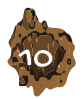
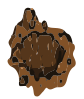
Added the images for mounds/holes of overflowing sizes. Also moved level 7, 8, 9 to appear at level 3, 4, 5. Instructions need to be updated, as well as markers which need graphics help.

Changed region(s): [[0.1905, 0.4848, 0.6667, 0.697]]

diff --git a/static/karel/levels.js b/static/karel/levels.js
@@ -34,6 +34,33 @@ Maze.pageOneLevels = [
   [1, 1, 1, 1, 1, 1, 1, 1],
   [1, 1, 1, 1, 1, 1, 1, 1],
   [1, 1, 1, 1, 1, 1, 1, 1]],
+// Level 7.
+ [[1, 1, 1, 1, 1, 1, 1, 1],
+  [1, 1, 1, 1, 1, 1, 1, 1],
+  [1, 1, 1, 1, 1, 1, 1, 1],
+  [1, 1, 1, 1, 1, 1, 1, 1],
+  [1, 1, 1, 1, 2, 3, 1, 1],
+  [1, 1, 1, 1, 1, 1, 1, 1],
+  [1, 1, 1, 1, 1, 1, 1, 1],
+  [1, 1, 1, 1, 1, 1, 1, 1]],
+// Level 8.
+ [[1, 1, 1, 1, 1, 1, 1, 1],
+  [1, 1, 1, 1, 1, 1, 1, 1],
+  [1, 1, 1, 1, 1, 1, 1, 1],
+  [1, 1, 1, 1, 1, 1, 1, 1],
+  [1, 1, 1, 1, 1, 1, 1, 1],
+  [1, 1, 1, 1, 1, 1, 1, 1],
+  [1, 1, 1, 1, 1, 1, 1, 1],
+  [2, 1, 1, 1, 1, 3, 0, 0]],
+// Level 9.
+ [[1, 1, 1, 1, 1, 1, 1, 1],
+  [1, 1, 1, 1, 1, 1, 1, 1],
+  [1, 1, 1, 1, 1, 1, 1, 1],
+  [1, 1, 1, 1, 1, 1, 1, 1],
+  [1, 1, 1, 5, 1, 1, 1, 1],
+  [1, 1, 1, 1, 1, 1, 1, 1],
+  [1, 1, 1, 1, 1, 1, 1, 1],
+  [1, 1, 1, 1, 1, 1, 1, 1]],
 // Level 3.
  [[1, 1, 1, 1, 1, 1, 1, 1],
   [1, 1, 1, 1, 1, 1, 1, 1],
@@ -70,33 +97,6 @@ Maze.pageOneLevels = [
   [1, 1, 1, 1, 1, 1, 1, 1],
   [1, 1, 1, 1, 1, 1, 1, 1],
   [2, 1, 1, 1, 1, 0, 1, 1]],
-// Level 7.
- [[1, 1, 1, 1, 1, 1, 1, 1],
-  [1, 1, 1, 1, 1, 1, 1, 1],
-  [1, 1, 1, 1, 1, 1, 1, 1],
-  [1, 1, 1, 1, 1, 1, 1, 1],
-  [1, 1, 1, 1, 2, 3, 1, 1],
-  [1, 1, 1, 1, 1, 1, 1, 1],
-  [1, 1, 1, 1, 1, 1, 1, 1],
-  [1, 1, 1, 1, 1, 1, 1, 1]],
-// Level 8.
- [[1, 1, 1, 1, 1, 1, 1, 1],
-  [1, 1, 1, 1, 1, 1, 1, 1],
-  [1, 1, 1, 1, 1, 1, 1, 1],
-  [1, 1, 1, 1, 1, 1, 1, 1],
-  [1, 1, 1, 1, 1, 1, 1, 1],
-  [1, 1, 1, 1, 1, 1, 1, 1],
-  [1, 1, 1, 1, 1, 1, 1, 1],
-  [2, 1, 1, 1, 1, 3, 0, 0]],
-// Level 9.
- [[1, 1, 1, 1, 1, 1, 1, 1],
-  [1, 1, 1, 1, 1, 1, 1, 1],
-  [1, 1, 1, 1, 1, 1, 1, 1],
-  [1, 1, 1, 1, 1, 1, 1, 1],
-  [1, 1, 1, 5, 1, 1, 1, 1],
-  [1, 1, 1, 1, 1, 1, 1, 1],
-  [1, 1, 1, 1, 1, 1, 1, 1],
-  [1, 1, 1, 1, 1, 1, 1, 1]],
 // Level 10.
  [[1, 1, 1, 1, 1, 1, 1, 1],
   [1, 1, 1, 1, 1, 1, 1, 1],
@@ -223,6 +223,33 @@ Maze.pageOneInitialBalls = [
   [0, 0, 0, 0, 0, 0, 0, 0],
   [0, 0, 0, 0, 0, 0, 0, 0],
   [0, 0, 0, 0, 0, 0, 0, 0]],
+// Level 7.
+ [[0, 0, 0, 0, 0, 0, 0, 0],
+  [0, 0, 0, 0, 0, 0, 0, 0],
+  [0, 0, 0, 0, 0, 0, 0, 0],
+  [0, 0, 0, 0, 0, 0, 0, 0],
+  [0, 0, 0, 0, 0, 10, 0, 0],
+  [0, 0, 0, 0, 0, 0, 0, 0],
+  [0, 0, 0, 0, 0, 0, 0, 0],
+  [0, 0, 0, 0, 0, 0, 0, 0]],
+// Level 8.
+ [[0, 0, 0, 0, 0, 0, 0, 0],
+  [0, 0, 0, 0, 0, 0, 0, 0],
+  [0, 0, 0, 0, 0, 0, 0, 0],
+  [0, 0, 0, 0, 0, 0, 0, 0],
+  [0, 0, 0, 0, 0, 0, 0, 0],
+  [0, 0, 0, 0, 0, 0, 0, 0],
+  [0, 0, 0, 0, 0, 0, 0, 0],
+  [0, -5, -5, -5, -5, -5, 0, 0]],
+// Level 9.
+ [[0, 0, 0, 0, 0, 0, 0, 0],
+  [0, 0, 0, 0, 0, 0, 0, 0],
+  [0, 0, 0, 0, 0, 0, 0, 0],
+  [0, 0, 0, 1, 1, 0, 0, 0],
+  [0, 0, 0, 1, 1, 0, 0, 0],
+  [0, 0, 0, 0, 0, 0, 0, 0],
+  [0, 0, 0, 0, 0, 0, 0, 0],
+  [0, 0, 0, 0, 0, 0, 0, 0]],
 // Level 3.
  [[0, 0, 0, 0, 0, 0, 0, 0],
   [0, 0, 0, 0, 0, 0, 0, 0],
@@ -259,33 +286,6 @@ Maze.pageOneInitialBalls = [
   [0, 0, 0, 0, 1, 0, 0, 0],
   [0, 0, 0, 0, 1, 0, 0, 0],
   [0, 1, 1, 1, 1, 0, 0, 0]],
-// Level 7.
- [[0, 0, 0, 0, 0, 0, 0, 0],
-  [0, 0, 0, 0, 0, 0, 0, 0],
-  [0, 0, 0, 0, 0, 0, 0, 0],
-  [0, 0, 0, 0, 0, 0, 0, 0],
-  [0, 0, 0, 0, 0, 10, 0, 0],
-  [0, 0, 0, 0, 0, 0, 0, 0],
-  [0, 0, 0, 0, 0, 0, 0, 0],
-  [0, 0, 0, 0, 0, 0, 0, 0]],
-// Level 8.
- [[0, 0, 0, 0, 0, 0, 0, 0],
-  [0, 0, 0, 0, 0, 0, 0, 0],
-  [0, 0, 0, 0, 0, 0, 0, 0],
-  [0, 0, 0, 0, 0, 0, 0, 0],
-  [0, 0, 0, 0, 0, 0, 0, 0],
-  [0, 0, 0, 0, 0, 0, 0, 0],
-  [0, 0, 0, 0, 0, 0, 0, 0],
-  [0, -5, -5, -5, -5, -5, 0, 0]],
-// Level 9.
- [[0, 0, 0, 0, 0, 0, 0, 0],
-  [0, 0, 0, 0, 0, 0, 0, 0],
-  [0, 0, 0, 0, 0, 0, 0, 0],
-  [0, 0, 0, 1, 1, 0, 0, 0],
-  [0, 0, 0, 1, 1, 0, 0, 0],
-  [0, 0, 0, 0, 0, 0, 0, 0],
-  [0, 0, 0, 0, 0, 0, 0, 0],
-  [0, 0, 0, 0, 0, 0, 0, 0]],
 // Level 10.
  [[0, 0, 0, 0, 0, 0, 0, 0],
   [0, 0, 0, 0, 0, 0, 0, 0],

diff --git a/static/karel/maze.js b/static/karel/maze.js
@@ -537,9 +537,7 @@ Maze.reset = function(first) {
       if (Maze.balls_[y][x] !== 0 ) {
         ballIcon = document.createElementNS(Blockly.SVG_NS, 'image');
         ballIcon.setAttribute('id', 'ball' + ballId);
-        ballIcon.setAttributeNS(
-            'http://www.w3.org/1999/xlink', 'xlink:href',
-            Maze.balls_[y][x] + Maze.SKIN.ball);
+        Maze.setBallImage(ballIcon, x, y);
         ballIcon.setAttribute('height', 50);
         ballIcon.setAttribute('width', 42);
         svg.insertBefore(ballIcon, pegmanIcon);
@@ -877,8 +875,7 @@ Maze.schedulePutDownBall = function() {
     // There is already a ball at the position
     ballIcon = document.getElementById('ball' + ballId);
     ++Maze.balls_[y][x];
-    ballIcon.setAttributeNS('http://www.w3.org/1999/xlink', 'xlink:href',
-                            Maze.balls_[y][x] + Maze.SKIN.ball);
+    Maze.setBallImage(ballIcon, x, y);
     ballIcon.setAttribute('x', Maze.SQUARE_SIZE * (x + 0.5) -
                           ballIcon.getAttribute('width') / 2);
     ballIcon.setAttribute('y', Maze.SQUARE_SIZE * (y + 0.6) -
@@ -893,8 +890,7 @@ Maze.schedulePutDownBall = function() {
     svg.insertBefore(ballIcon, pegmanIcon);
 
     ++Maze.balls_[y][x];
-    ballIcon.setAttributeNS('http://www.w3.org/1999/xlink', 'xlink:href',
-                            Maze.balls_[y][x] + Maze.SKIN.ball);
+    Maze.setBallImage(ballIcon, x, y);
     ballIcon.setAttribute('x', Maze.SQUARE_SIZE * (x + 0.5) -
                           ballIcon.getAttribute('width') / 2);
     ballIcon.setAttribute('y', Maze.SQUARE_SIZE * (y + 0.6) -
@@ -908,6 +904,21 @@ Maze.schedulePutDownBall = function() {
   }
 };
 
+// Set the image based on the number of balls in the location.
+Maze.setBallImage = function(ballIcon, x, y) {
+  if (Maze.balls_[y][x] > 10) {
+    ballIcon.setAttributeNS(
+      'http://www.w3.org/1999/xlink', 'xlink:href', Maze.SKIN.ball);
+  } else if (Maze.balls_[y][x] < -10) {
+    ballIcon.setAttributeNS(
+      'http://www.w3.org/1999/xlink', 'xlink:href', '-' + Maze.SKIN.ball);
+  } else {
+    ballIcon.setAttributeNS(
+      'http://www.w3.org/1999/xlink', 'xlink:href',
+      Maze.balls_[y][x] + Maze.SKIN.ball);
+  }
+}
+
 // Nan's
 Maze.schedulePickUpBall = function() {
   var x = Maze.pegmanX;
@@ -919,8 +930,7 @@ Maze.schedulePickUpBall = function() {
     // The ballIcon should still exist after picking up a ball
     Maze.balls_[y][x] = Maze.balls_[y][x] - 1;
     ballIcon = document.getElementById('ball' + ballId);
-    ballIcon.setAttributeNS('http://www.w3.org/1999/xlink', 'xlink:href',
-                            Maze.balls_[y][x] + Maze.SKIN.ball);
+    Maze.setBallImage(ballIcon, x, y);
   } else if (Maze.balls_[y][x] == 0) {
     // Create ballIcon
     Maze.balls_[y][x] = Maze.balls_[y][x] - 1;
@@ -931,8 +941,7 @@ Maze.schedulePickUpBall = function() {
     ballIcon.setAttribute('width', 42);
     svg.insertBefore(ballIcon, pegmanIcon);
 
-    ballIcon.setAttributeNS('http://www.w3.org/1999/xlink', 'xlink:href',
-                            Maze.balls_[y][x] + Maze.SKIN.ball);
+    Maze.setBallImage(ballIcon, x, y);
     ballIcon.setAttribute('x', Maze.SQUARE_SIZE * (x + 0.5) -
                           ballIcon.getAttribute('width') / 2);
     ballIcon.setAttribute('y', Maze.SQUARE_SIZE * (y + 0.6) -

diff --git a/static/karel/blocks.js b/static/karel/blocks.js
@@ -193,10 +193,7 @@ Blockly.Language.maze_whileNotClear = {
   init: function() {
     this.setColour(120);
     this.appendDummyInput()
-        .appendTitle(BlocklyApps.getMsg('repeatWhileCurrentNotClear'))
-        .appendTitle(new Blockly.FieldImage(Maze.SKIN.ball, 15, 20))
-        .appendTitle('or')
-        .appendTitle(new Blockly.FieldImage('-' + Maze.SKIN.ball, 15, 20));
+        .appendTitle(new Blockly.FieldDropdown(this.DIRECTIONS), 'DIR');
     this.appendStatementInput('DO').appendTitle(BlocklyApps.getMsg('doCode'));
     this.setPreviousStatement(true);
     this.setNextStatement(true);
@@ -205,8 +202,8 @@ Blockly.Language.maze_whileNotClear = {
 };
 
 Blockly.JavaScript.maze_whileNotClear = function() {
-  var argument = 'Maze.currentPositionNotClear'
-        + '(\'block_id_' + this.id + '\')';
+  var argument = 'Maze.' + this.getTitleValue('DIR')
+      + '(\'block_id_' + this.id + '\')';
   var branch = Blockly.JavaScript.statementToCode(this, 'DO');
   if (Blockly.JavaScript.INFINITE_LOOP_TRAP) {
     branch = Blockly.JavaScript.INFINITE_LOOP_TRAP.replace(/%1/g,
@@ -215,6 +212,13 @@ Blockly.JavaScript.maze_whileNotClear = function() {
   console.log('while (' + argument + ') {\n' + branch + '}\n');
   return 'while (' + argument + ') {\n' + branch + '}\n';
 };
+
+Blockly.Language.maze_whileNotClear.DIRECTIONS = [
+     [BlocklyApps.getMsg('while') + ' ' + BlocklyApps.getMsg('ballsPresent'),
+      'ballsPresent'],
+     [BlocklyApps.getMsg('while') + ' ' + BlocklyApps.getMsg('holesPresent'),
+      'holesPresent']
+];
 
 Blockly.Language.maze_untilBlocked = {
   helpUrl: 'http://code.google.com/p/blockly/wiki/Repeat',
@@ -266,8 +270,10 @@ Blockly.JavaScript.maze_untilBlockedOrNotClear = function() {
 };
 
 Blockly.Language.maze_untilBlockedOrNotClear.DIRECTIONS = [
-     [BlocklyApps.getMsg('repeatWhileCurrentNotClear') + ' pile or hole',
-      'currentPositionNotClear'],
+     [BlocklyApps.getMsg('while') + ' ' + BlocklyApps.getMsg('ballsPresent'),
+      'ballsPresent'],
+     [BlocklyApps.getMsg('while') + ' ' + BlocklyApps.getMsg('holesPresent'),
+      'holesPresent'],
      [BlocklyApps.getMsg('repeatUntilBlocked'), 'isPathForward']
 ];
 
